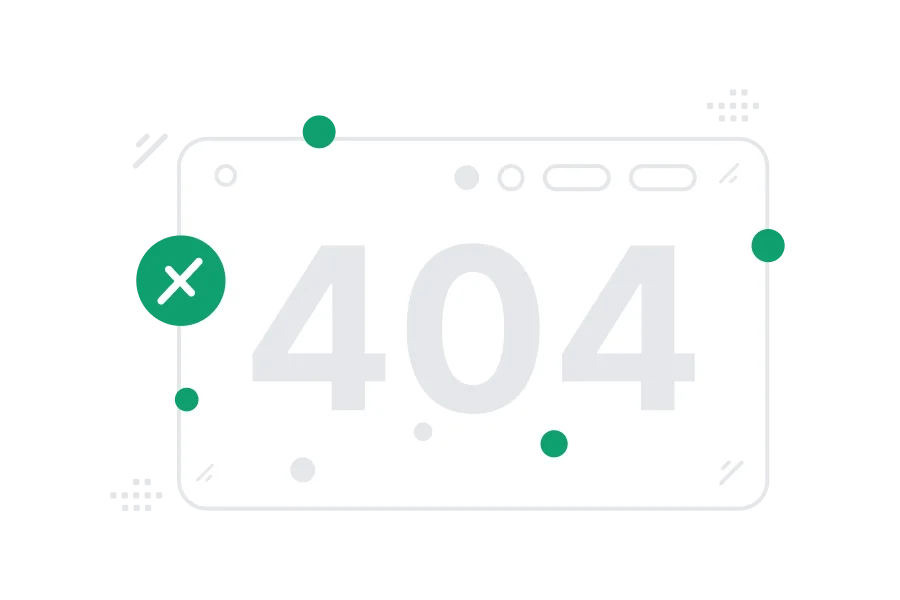
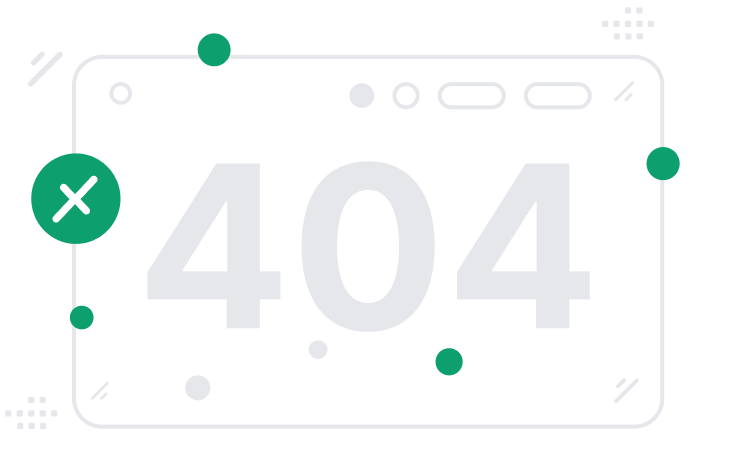
[RA-A2-error-page]: Review fixes

diff --git a/src/components/Error/Error.component.tsx b/src/components/Error/Error.component.tsx
@@ -1,22 +1,19 @@
-import { Box, Button, Typography } from '@mui/material';
+import { Link } from 'react-router-dom';
 
-import { StyledBox } from './Error.styles';
-import { ErrorProps } from './Error.types';
+import { Button, Typography } from '@mui/material';
 
-export const ErrorPage = ({
+import { StyledBox, StyledImage } from './Error.styles';
+import { ErrorDisplayProps } from './Error.types';
+
+export const ErrorDisplay = ({
     image,
     title,
     body,
     buttonText,
-    buttonComponent,
     to,
-}: ErrorProps) => (
+}: ErrorDisplayProps) => (
     <StyledBox>
-        <Box
-            component="img"
-            src={image}
-            sx={{ maxWidth: '100%', pointerEvents: 'none' }}
-        />
+        <StyledImage src={image} alt={title} />
 
         <Typography variant="h1">{title}</Typography>
 
@@ -28,8 +25,10 @@ export const ErrorPage = ({
             {body}
         </Typography>
 
-        <Button variant="contained" component={buttonComponent} to={to}>
-            {buttonText}
-        </Button>
+        {buttonText && (
+            <Button variant="contained" component={Link} to={to}>
+                {buttonText}
+            </Button>
+        )}
     </StyledBox>
 );

diff --git a/src/pages/NotFound/NotFound.page.tsx b/src/pages/NotFound/NotFound.page.tsx
@@ -1,20 +1,15 @@
-import { Link } from 'react-router-dom';
-
-import { Box } from '@mui/material';
-
 import notFoundImage from '@assets/images/404.webp';
-import { ErrorPage } from '@components';
+import { ErrorDisplay } from '@components';
 import { ROUTES } from '@routes';
 
+import { NotFoundConstants } from './NotFound.constants';
+
 export const NotFound = () => (
-    <Box sx={{ mt: 16 }}>
-        <ErrorPage
-            image={notFoundImage}
-            title="Page not found"
-            body="Oops! Looks like you followed a bad link. If you think this is a problem with us, please tell us."
-            buttonText="Go Home"
-            buttonComponent={Link}
-            to={ROUTES.ROOT}
-        />
-    </Box>
+    <ErrorDisplay
+        image={notFoundImage}
+        title={NotFoundConstants.TITLE}
+        body={NotFoundConstants.BODY}
+        buttonText={NotFoundConstants.BUTTON_TEXT}
+        to={ROUTES.ROOT}
+    />
 );

diff --git a/src/components/Error/Error.styles.ts b/src/components/Error/Error.styles.ts
@@ -3,9 +3,19 @@ import { Box, styled } from '@mui/material';
 export const StyledBox = styled(Box)(
     ({ theme: { mixins, spacing, typography } }) => ({
         ...mixins.flexCenter('column'),
+        height: '100vh',
         gap: spacing(4),
         textAlign: 'center',
         maxWidth: typography.pxToRem(1320),
         margin: 'auto',
     }),
 );
+
+export const StyledImage = styled('img')(({ theme: { breakpoints } }) => ({
+    width: '70%',
+    height: 'auto',
+    pointerEvents: 'none',
+    [breakpoints.up('sm')]: {
+        width: '40%',
+    },
+}));

diff --git a/src/routes/Router.routes.tsx b/src/routes/Router.routes.tsx
@@ -2,7 +2,7 @@ import { createBrowserRouter } from 'react-router-dom';
 
 import { Main } from '@containers';
 import { Root } from '@layout';
-import { ErrorBoundary, NotFound } from '@pages';
+import { ErrorPage, NotFound } from '@pages';
 
 import { ROUTES } from './Routes.constant';
 
@@ -10,7 +10,7 @@ export const router = createBrowserRouter([
     {
         path: ROUTES.ROOT,
         element: <Root />,
-        errorElement: <ErrorBoundary />,
+        errorElement: <ErrorPage />,
         children: [
             {
                 index: true,

diff --git a/src/components/Error/Error.types.ts b/src/components/Error/Error.types.ts
@@ -1,10 +1,14 @@
-import { ElementType } from 'react';
-
-export type ErrorProps = {
+export type ErrorDisplayProps = {
     image: string;
     title: string;
     body: string;
-    buttonText: string;
-    to?: string;
-    buttonComponent: ElementType;
-};
+} & (
+    | {
+          buttonText: string;
+          to: string;
+      }
+    | {
+          buttonText?: never;
+          to?: never;
+      }
+);

diff --git a/src/pages/ErrorPage/ErrorPage.page.tsx b/src/pages/ErrorPage/ErrorPage.page.tsx
@@ -1,0 +1,12 @@
+import errorBoundaryImage from '@assets/images/error-page-bg.webp';
+import { ErrorDisplay } from '@components';
+
+import { ErrorPageConstants } from './ErrorPage.constants';
+
+export const ErrorPage = () => (
+    <ErrorDisplay
+        image={errorBoundaryImage}
+        title={ErrorPageConstants.TITLE}
+        body={ErrorPageConstants.BODY}
+    />
+);

diff --git a/src/pages/NotFound/NotFound.constants.ts b/src/pages/NotFound/NotFound.constants.ts
@@ -1,0 +1,5 @@
+export const NotFoundConstants = {
+    TITLE: 'Page not found',
+    BODY: 'Oops! Looks like you followed a bad link. If you think this is a problem with us, please tell us.',
+    BUTTON_TEXT: 'Go Home',
+};

diff --git a/src/pages/ErrorPage/ErrorPage.constants.ts b/src/pages/ErrorPage/ErrorPage.constants.ts
@@ -1,0 +1,4 @@
+export const ErrorPageConstants = {
+    TITLE: 'Something has gone seriously wrong',
+    BODY: 'It’s always time for a coffee break We should be back by the time you finish your coffee.',
+};

diff --git a/src/components/index.ts b/src/components/index.ts
@@ -1,5 +1,5 @@
 export { ModalSkeleton } from './Modal';
-export { ErrorPage } from './Error';
+export { ErrorDisplay } from './Error';
 
 export { CustomModal } from './Modal';
 

diff --git a/src/pages/index.ts b/src/pages/index.ts
@@ -1,3 +1,3 @@
-export { ErrorBoundary } from './ErrorBoundary';
+export { ErrorPage } from './ErrorPage';
 
 export { NotFound } from './NotFound';

diff --git a/src/components/Error/index.ts b/src/components/Error/index.ts
@@ -1,1 +1,1 @@
-export { ErrorPage } from './Error.component';
+export { ErrorDisplay } from './Error.component';

diff --git a/src/pages/ErrorPage/index.ts b/src/pages/ErrorPage/index.ts
@@ -1,0 +1,1 @@
+export { ErrorPage } from './ErrorPage.page';
